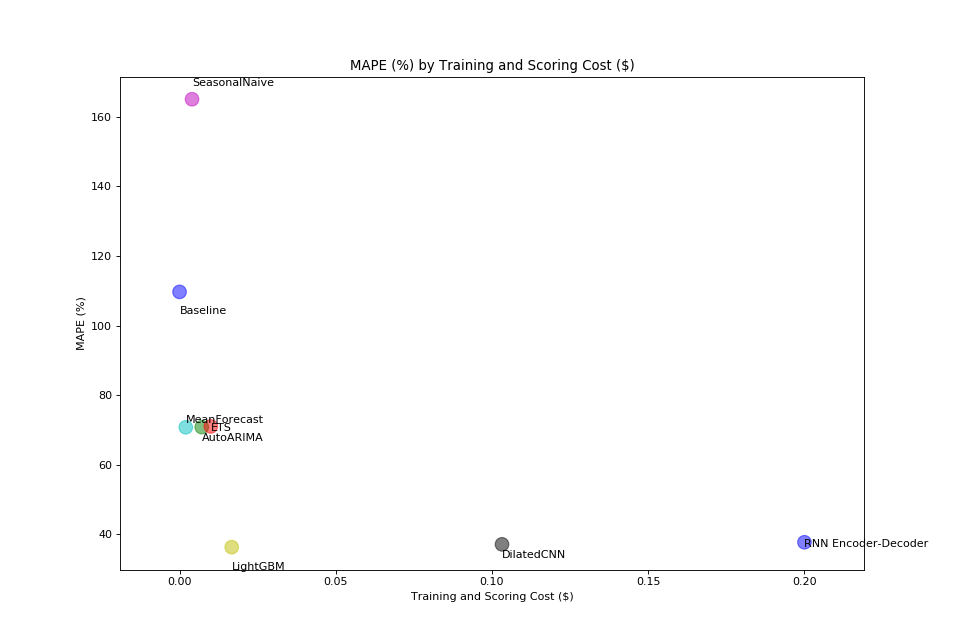
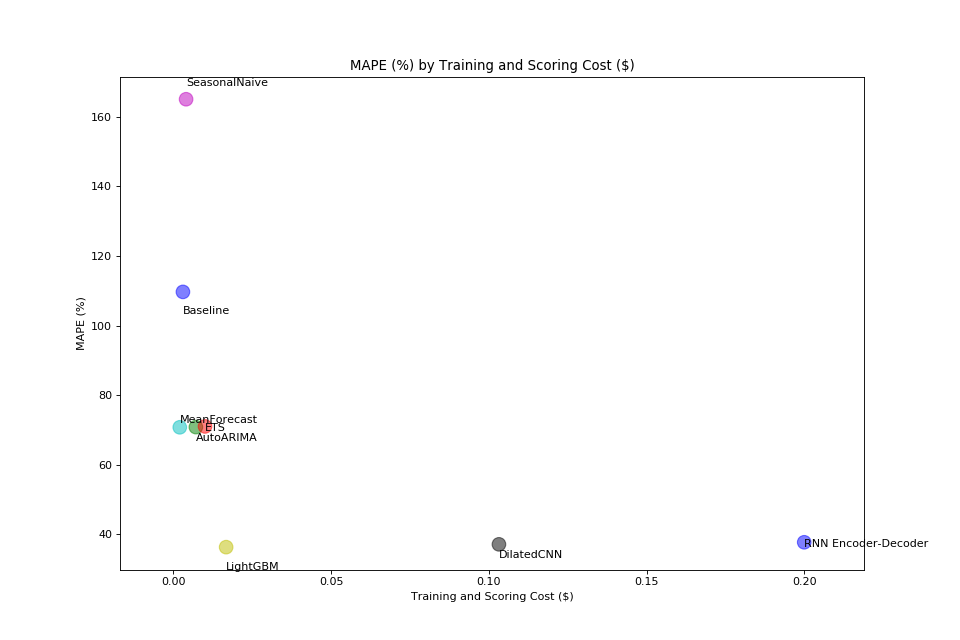
Adding recent perfromance results and generated a new Readme.md

diff --git a/README.md b/README.md
@@ -1,4 +1,3 @@
-<<<<<<< HEAD
 # TSPerf
 
 TSPerf is a framework that allows discovery and comparison of various time-series forecasting algorithms and architectures on a cloud-based environment. This framework allows data scientists to discover the best approach that fits their use case from cost, time and quality perspective.
@@ -13,7 +12,7 @@ Retail sales forecasting                    |  Orange Juice dataset  |  `retail_
 
 
 
-A complete documentation of TSPerf, along with the instructions for submitting and reviewing benchmark implementations, can be found [here](./internal_docs/tsperf_rules.md). The tables below show performance of benchmark implementations that are developed so far. These tables are referred to as *performance boards*. Source code of benchmark implementations and instructions for reproducing their performance can be found in submission folders, which are linked in the last column of performance boards.
+A complete documentation of TSPerf, along with the instructions for submitting and reviewing benchmark implementations, can be found [here](./docs/tsperf_rules.md). The tables below show performance of benchmark implementations that are developed so far. These tables are referred to as *performance boards*. Source code of benchmark implementations and instructions for reproducing their performance can be found in submission folders, which are linked in the last column of performance boards.
 
 ## Probabilistic energy forecasting performance board
 
@@ -21,23 +20,18 @@ A complete documentation of TSPerf, along with the instructions for submitting a
 The following table lists the current submision for the energy foercasting and their respective performances.
 
 
-Submission Name  |  Pinball Loss  |  Training and Scoring Time (Sec)  |  Training and Scoring Cost($)  |  Architecture                                |  Framework                        |  Algorithm                        |  Uni/Multivariate  |  Exteranl Feature Support  |  Submission Folder URL
------------------|----------------|-----------------------------------|--------------------------------|----------------------------------------------|-----------------------------------|-----------------------------------|--------------------|----------------------------|-----------------------------------------------------------------------------------------------------------------------------------------------------------------------------------------
-Baseline         |  84.66         |  446                              |  0.05                          |  Linux DSVM (Standard D8s v3 - Premium SSD)  |  quantreg package of R            |  Linear Quantile Regression       |  Multivariate      |  Yes                       |  [link](https://msdata.visualstudio.com/AlgorithmsAndDataScience/_git/TSPerf?path=%2Fenergy_load%2FGEFCom2017_D_Prob_MT_hourly%2Fsubmissions%2Fbaseline&version=GBmaster)
-GBM              |  78.73         |  1055                             |  0.11                          |  Linux DSVM (Standard D8s v3 - Premium SSD)  |  gbm package of R                 |  Gradient Boosting Decision Tree  |  Multivariate      |  Yes                       |  [link](https://msdata.visualstudio.com/AlgorithmsAndDataScience/_git/TSPerf?path=%2Fenergy_load%2FGEFCom2017_D_Prob_MT_hourly%2Fsubmissions%2FGBM%2FREADME.md&version=GBvapaunic%2Fgbm)
-QRF              |  76.48         |  22709                            |  19.03                         |  Linux DSVM (F72s v2 - Premium SSD)          |  scikit-garden package of Python  |  Quantile Regression Forest       |   Multivariate     |  Yes                       |  [link](https://msdata.visualstudio.com/AlgorithmsAndDataScience/_git/TSPerf?path=%2Fenergy_load%2FGEFCom2017_D_Prob_MT_hourly%2Fsubmissions%2Fqrf&version=GBmaster)
-
-
-The following chart compares the submissions performance on accuracy in Pinball Loss vs. Training and Scoring time in seconds:
-
-![EnergyPBLvsTime](./internal_docs/images/Energy-Time.png)
-
+Submission Name  |  Pinball Loss  |  Training and Scoring Time (Sec)  |  Training and Scoring Cost($)  |  Architecture                                 |  Framework                         |  Algorithm                            |  Uni/Multivariate  |  Exteranl Feature Support  |  Submission Folder URL
+-----------------|----------------|-----------------------------------|--------------------------------|-----------------------------------------------|------------------------------------|---------------------------------------|--------------------|----------------------------|-----------------------------------------------------------------------------------------------------------------------------------------------------------------------------------------
+Baseline         |  84.66         |  446                              |  0.05                          |  Linux DSVM (Standard D8s v3 - Premium SSD)   |  quantreg package of R             |  Linear Quantile Regression           |  Multivariate      |  Yes                       |  [link](https://msdata.visualstudio.com/AlgorithmsAndDataScience/_git/TSPerf?path=%2Fenergy_load%2FGEFCom2017_D_Prob_MT_hourly%2Fsubmissions%2Fbaseline&version=GBmaster)
+GBM              |  78.73         |  1055                             |  0.11                          |  Linux DSVM (Standard D8s v3 - Premium SSD)   |  gbm package of R                  |  Gradient Boosting Decision Tree      |  Multivariate      |  Yes                       |  [link](https://msdata.visualstudio.com/AlgorithmsAndDataScience/_git/TSPerf?path=%2Fenergy_load%2FGEFCom2017_D_Prob_MT_hourly%2Fsubmissions%2FGBM%2FREADME.md&version=GBvapaunic%2Fgbm)
+QRF              |   76.48        |   22709                           |   19.03                        |   Linux DSVM (F72s v2 - Premium SSD)          |   scikit-garden package of Python  |   Quantile Regression Forest          |   Multivariate     |   Yes                      |   [link](https://msdata.visualstudio.com/AlgorithmsAndDataScience/_git/TSPerf?path=%2Fenergy_load%2FGEFCom2017_D_Prob_MT_hourly%2Fsubmissions%2Fqrf&version=GBmaster)
+FNN              |   80.24        |   5095                            |   0.5435                       |   Linux DSVM (Standard D8s v3 - Premium SSD)  |   qrnn package of R                |   Quantile Regression Neural Network  |   Multivariate     |   Yes                      |   [link](https://msdata.visualstudio.com/AlgorithmsAndDataScience/_git/TSPerf?path=%2Fenergy_load%2FGEFCom2017_D_Prob_MT_hourly%2Fsubmissions%2Ffnn&version=GBmaster)
 
 
 The following chart compares the submissions performance on accuracy in Pinball Loss vs. Training and Scoring cost in $:
 
  
-![EnergyPBLvsTime](./internal_docs/images/Energy-Cost.png)
+![EnergyPBLvsTime](./docs/images/Energy-Cost.png)
 
 
 
@@ -50,7 +44,7 @@ The following table lists the current submision for the retail foercasting and t
 
 Submission Name      |  MAPE (%)  |  Training and Scoring Time (sec)  |  Training and Scoring Cost ($)  |  Architecture                                |  Framework                   |  Algorithm                                                          |  Uni/Multivariate  |  Exteranl Feature Support  |  Submission Folder URL
 ---------------------|------------|-----------------------------------|---------------------------------|----------------------------------------------|------------------------------|---------------------------------------------------------------------|--------------------|----------------------------|------------------------------------------------------------------------------------------------------------------------------------------------------------------------------------------------
-Baseline             |  109.67    |  114.06                           |  0.00                           |  Linux DSVM(Standard D2s v3 - Premium SSD)   |  forecast package of R       |  Naive Forecast                                                     |  Univariate        |  No                        |  [link](https://msdata.visualstudio.com/AlgorithmsAndDataScience/_git/TSPerf?path=%2Fretail_sales%2FOrangeJuice_Pt_3Weeks_Weekly%2Fbaseline%2FNaive&version=GBmaster)
+Baseline             |  109.67    |  114.06                           |  0.003                          |  Linux DSVM(Standard D2s v3 - Premium SSD)   |  forecast package of R       |  Naive Forecast                                                     |  Univariate        |  No                        |  [link](https://msdata.visualstudio.com/AlgorithmsAndDataScience/_git/TSPerf?path=%2Fretail_sales%2FOrangeJuice_Pt_3Weeks_Weekly%2Fbaseline%2FNaive&version=GBmaster)
 AutoARIMA            |  70.80     |  265.94                           |  0.0071                         |  Linux DSVM(Standard D2s v3 - Premium SSD)   |  forecast package of R       |  Auto ARIMA                                                         |  Multivariate      |  Yes                       |  [link](https://msdata.visualstudio.com/AlgorithmsAndDataScience/_git/TSPerf?path=%2Fretail_sales%2FOrangeJuice_Pt_3Weeks_Weekly%2Fsubmissions%2FAutoARIMA&version=GBmaster)
 ETS                  |  70.99     |  277                              |  0.01                           |  Linux DSVM(Standard D2s v3 - Premium SSD)   |  forecast package of R       |  ETS                                                                |  Multivariate      |  No                        |  [link](https://msdata.visualstudio.com/AlgorithmsAndDataScience/_git/TSPerf?path=%2Fretail_sales%2FOrangeJuice_Pt_3Weeks_Weekly%2Fsubmissions%2FETS&version=GBmaster)
 MeanForecast         |  70.74     |  69.88                            |  0.002                          |  Linux DSVM(Standard D2s v3 - Premium SSD)   |  forecast package of R       |  Mean forecast                                                      |   Univariate       |  No                        |  [link](https://msdata.visualstudio.com/AlgorithmsAndDataScience/_git/TSPerf?path=%2Fretail_sales%2FOrangeJuice_Pt_3Weeks_Weekly%2Fsubmissions%2FMeanForecast&version=GBmaster)
@@ -64,59 +58,11 @@ RNN Encoder-Decoder  |  37.68     |  669                              |  0.2    
 
 
 
-The following chart compares the submissions performance on accuracy in %MAPE vs. Training and Scoring time in seconds:
-
-![EnergyPBLvsTime](./internal_docs/images/Retail-Time.png)
-
-
-
 The following chart compares the submissions performance on accuracy in %MAPE vs. Training and Scoring cost in $:
 
  
-![EnergyPBLvsTime](./internal_docs/images/Retail-Cost.png)
+![EnergyPBLvsTime](./docs/images/Retail-Cost.png)
 
 
 
 
-=======
-# TSPerf
-
-TSPerf is a framework that allows discovery and comparison of various time-series forecasting algorithms and architectures on a cloud-based environment. This framework allows data scientists to discover the best approach that fits their use case from cost, time and quality perspective.
-TSPerf framework is designed to facilitate data science community participation and contribution through the development of benchmark implementations against a given set of forecasting problems and datasets. Benchmark implementations are measured in terms of standard metrics of model accuracy, training cost and model training time. Each implementation includes all the necessary instructions and tools that ensure its reproducibility on Azure customer's subscription. We plan to leverage TSPerf to propose a new time-series forecasting track in [MLPerf](https://mlperf.org/).
-
-The following table summarizes benchmarks that are currently included in TSPerf. 
-
-| **Benchmark** | **Dataset** | **Benchmark directory** |  
-| --------------------- | ----|---------------- |  
-| Probabilistic electricity load forecasting | GEFCom2017 |`energy_load/GEFCom2017-D_Prob_MT_Hourly` |
-| Retail sales forecasting | Orange Juice dataset | `retail_sales/OrangeJuice_Pt_3Weeks_Weekly` |
-
-A complete documentation of TSPerf, along with the instructions for submitting and reviewing benchmark implementations, can be found [here](./internal_docs/tsperf_rules.md). The tables below show performance of benchmark implementations that are developed so far. These tables are referred to as *performance boards*. Source code of benchmark implementations and instructions for reproducing their performance can be found in submission folders, which are linked in the last column of performance boards.
-
-### Probabilistic energy forecasting performance board
-
-| Submission Name | Pinball Loss | Training and Scoring Time | Training and Scoring Cost | Architecture | Framework | Algorithm | Submission Folder URL |
-| -------------- | --------------------- | --------- | ---- | --- | -- | -- | -- |
-| Baseline | 84.66 | 446 sec | $0.05 | Linux DSVM (Standard D8s v3, Premium SSD) | quantreg package of R | Linear Quantile Regression  | [link](https://msdata.visualstudio.com/AlgorithmsAndDataScience/_git/TSPerf?path=%2Fenergy_load%2FGEFCom2017_D_Prob_MT_hourly%2Fsubmissions%2Fbaseline&version=GBmaster) |
-| GBM      | 78.73 | 1055 sec | $0.113 | Linux DSVM (Standard D8s v3, Premium SSD) | gbm package of R | Gradient Boosting Decision Tree | [link](https://msdata.visualstudio.com/AlgorithmsAndDataScience/_git/TSPerf?path=%2Fenergy_load%2FGEFCom2017_D_Prob_MT_hourly%2Fsubmissions%2FGBM&version=GBmaster) |
-| QRF      | 76.48 | 22709 sec | $19.03 | Linux DSVM (F72s v2, Premium SSD) | scikit-garden package of Python | Quantile Regression Forest | [link](https://msdata.visualstudio.com/AlgorithmsAndDataScience/_git/TSPerf?path=%2Fenergy_load%2FGEFCom2017_D_Prob_MT_hourly%2Fsubmissions%2Fqrf&version=GBmaster) |
-| FNN      | 80.24 | 5095 sec | $0.5435 | Linux DSVM (Standard D8s v3, Premium SSD) | qrnn package of R | Quantile Regression Neural Network | [link](https://msdata.visualstudio.com/AlgorithmsAndDataScience/_git/TSPerf?path=%2Fenergy_load%2FGEFCom2017_D_Prob_MT_hourly%2Fsubmissions%2Ffnn&version=GBmaster) |
-
-### Retail sales forecasting performance board
-
-| Submission Name |  MAPE (%) | Training and Scoring Time | Training and Scoring Cost | Architecture | Framework | Algorithm | Submission Folder URL |
-| -------------- | --------------------- | --------- | ---- | --- | -- | -- | -- |
-| Baseline | 109.67 | 114.06 sec | $0.003 | Linux DSVM (Standard D2s v3, Premium SSD) | forecast package of R | Naive forecast  | [link](https://msdata.visualstudio.com/AlgorithmsAndDataScience/_git/TSPerf?path=%2Fretail_sales%2FOrangeJuice_Pt_3Weeks_Weekly%2Fbaseline%2FNaive&version=GBmaster) | 
-| ARIMA |  70.80 | 265.94 sec | $0.0071 | Linux DSVM (Standard D2s v3, Premium SSD) | forecast package of R | ARIMA  | [link](https://msdata.visualstudio.com/AlgorithmsAndDataScience/_git/TSPerf?path=%2Fretail_sales%2FOrangeJuice_Pt_3Weeks_Weekly%2Fsubmissions%2FARIMA&version=GBmaster) |
-| ETS |  70.99 | 277.01 sec | $0.01 | Linux DSVM (Standard D2s v3, Premium SSD) | forecast package of R | ETS  | [link](https://msdata.visualstudio.com/AlgorithmsAndDataScience/_git/TSPerf?path=%2Fretail_sales%2FOrangeJuice_Pt_3Weeks_Weekly%2Fsubmissions%2FETS&version=GBmaster) |
-| MeanForecast |  70.74 | 69.88 sec | $0.002 | Linux DSVM (Standard D2s v3, Premium SSD) | forecast package of R | Mean forecast  | [link](https://msdata.visualstudio.com/AlgorithmsAndDataScience/_git/TSPerf?path=%2Fretail_sales%2FOrangeJuice_Pt_3Weeks_Weekly%2Fsubmissions%2FMeanForecast&version=GBmaster) |
-| SeasonalNaive | 165.06 | 160.45 sec | $0.004 | Linux DSVM (Standard D2s v3, Premium SSD) | forecast package of R | Seasonal naive  | [link](https://msdata.visualstudio.com/AlgorithmsAndDataScience/_git/TSPerf?path=%2Fretail_sales%2FOrangeJuice_Pt_3Weeks_Weekly%2Fsubmissions%2FSeasonalNaive&version=GBmaster) |
-| LightGBM | 36.28 | 625.10 sec | $0.0167 | Linux DSVM (Standard D2s v3, Premium SSD) | LightGBM package of Python | Gradient boosting decision tree  | [link](https://msdata.visualstudio.com/AlgorithmsAndDataScience/_git/TSPerf?path=%2Fretail_sales%2FOrangeJuice_Pt_3Weeks_Weekly%2Fsubmissions%2FLightGBM&version=GBmaster) |
-| DilatedCNN | 37.09 | 412.89 sec | $0.1032 | Ubuntu VM (NC6, Standard HDD) | Keras, Tensorflow, Python | Dilated convolutional neural network  | [link](https://msdata.visualstudio.com/AlgorithmsAndDataScience/_git/TSPerf?path=%2Fretail_sales%2FOrangeJuice_Pt_3Weeks_Weekly%2Fsubmissions%2FDilatedCNN&version=GBmaster) |
-| RNN Encoder-Decoder | 37.68 | 668.99 sec | $0.2007 | Ubuntu VM (NC6, Standard HDD) | Tensorflow, Python | Encoder-decoder architecture of recurrent neural network | [link](https://msdata.visualstudio.com/AlgorithmsAndDataScience/_git/TSPerf?path=%2Fretail_sales%2FOrangeJuice_Pt_3Weeks_Weekly%2Fsubmissions%2FRNN&version=GBmaster) |
-
-
-
-
-
->>>>>>> origin/master
